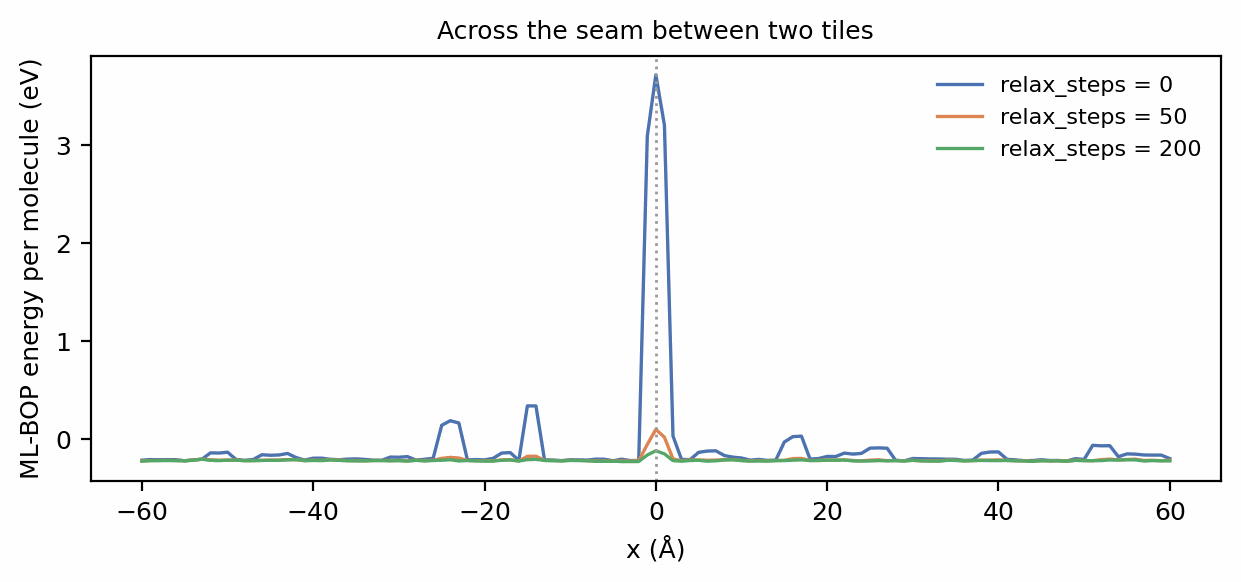
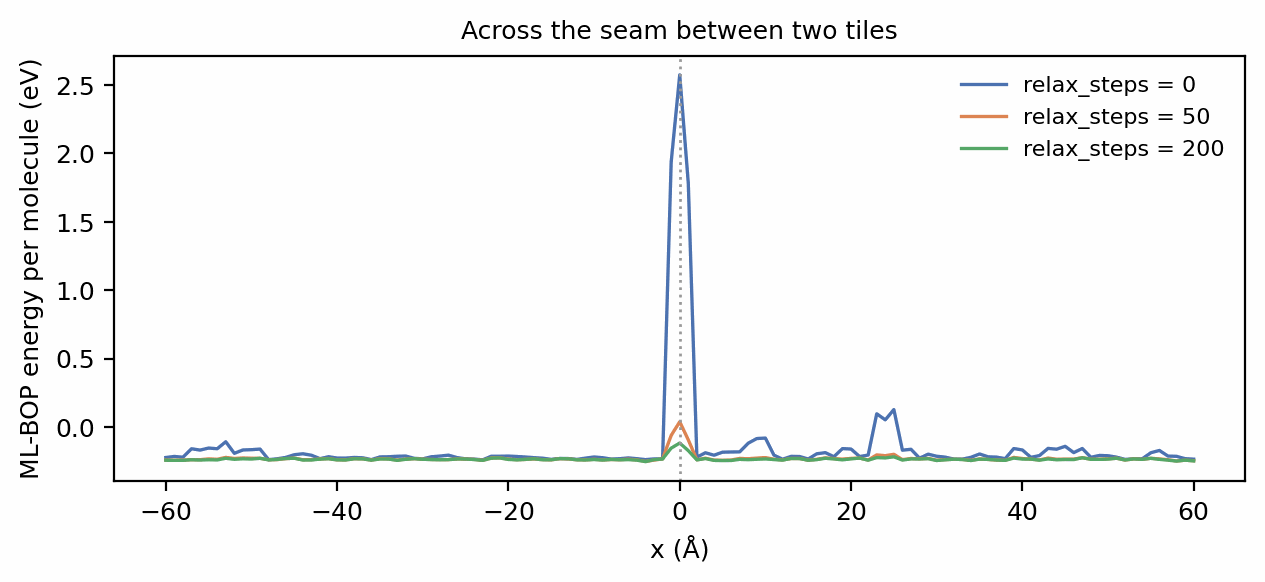
Rerun the ice-library tutorial on the annealed recipe
The trajectory example now anneals before optimizing, so it follows
build_one_ice_config's recipe again, and the prose quotes the new
outputs: the 64 A cell reaches -0.417 eV per molecule in seconds, and
the seams relax to -0.399.

Claude-Session: https://claude.ai/code/session_01NPrPcMGNLoGufkpyjKJtDq

diff --git a/docs-figures/tutorials/ice_library.py b/docs-figures/tutorials/ice_library.py
@@ -52,11 +52,15 @@ torch.manual_seed(1000)  # the seed build_one_ice_config set
 maker = GradientSKIcemaker(n=64, dx=1.0, device="cuda", progressbars=False)
 maker.init_random()
 start_energy = maker.mlbop_energy()["E_per_atom"]
-history = maker.optimize(n_steps=250, record_every=1)
+annealed = maker.anneal()  # Langevin dynamics under ML-BOP, then a quench
+history = maker.optimize(n_steps=250, record_every=1, prerelax_steps=0)
 final_energy = maker.mlbop_energy()["E_per_atom"]
 
 print(f"{maker.n_molecules} water molecules in the cell")
-print(f"ML-BOP energy {start_energy:.2f} -> {final_energy:.3f} eV per molecule")
+print(
+    f"ML-BOP energy {start_energy:.2f} -> {annealed['E_per_atom']:.3f} annealed "
+    f"-> {final_energy:.3f} eV per molecule"
+)
 print(f"S(k) loss {history['sk_loss'][0]:.2e} -> {history['sk_loss'][-1]:.2e}")
 # --8<-- [end:trajectory]
 

diff --git a/docs/tutorials/ice-library.md b/docs/tutorials/ice-library.md
@@ -43,7 +43,7 @@ library. Never write into the bundled library inside the package.
 
 `build_one_ice_config` optimises one configuration and writes it to a
 library directory, named after its seed by `ice_config_filename`. A 64 Å
-cell at 1 Å per voxel keeps the example to a couple of minutes:
+cell at 1 Å per voxel keeps the example to a few seconds:
 
 ```python
 --8<-- "docs-figures/tutorials/ice_library.py:build"
@@ -56,7 +56,10 @@ cell at 1 Å per voxel keeps the example to a couple of minutes:
 The optimisation recipe is fixed rather than exposed: it matches the
 structure factor \(S(k)\) of a molecular-dynamics frame of low-density
 amorphous ice, and holds the coarse-grained ML-BOP water energy (Chan et al.
-2019) near that frame's measured −0.413 eV per molecule. Two libraries built
+2019) near that frame's measured −0.413 eV per molecule. Before the
+optimisation, Langevin dynamics under ML-BOP anneals the random start, so
+that most molecules end with four neighbours as in the MD ice (see
+[Annealing](../concepts/ice.md#annealing)). Two libraries built
 under different recipes would be two different phases of ice, and `IceBank`
 would draw from them interchangeably. The S(k) loss reported is measured on the coordinates
 as stored, which the file keeps in a fixed-point encoding, so it is what any
@@ -90,9 +93,10 @@ optimisation constrains.
 
 Uniformly random positions have no structure: their Fourier amplitude falls
 smoothly with frequency, and overlapping molecules give an ML-BOP energy of
-17.20 eV per molecule. The optimised positions follow the target's water
-ring at 0.27 Å⁻¹ (3.7 Å) and its second peak, and the energy ends at
-−0.366 eV per molecule, approaching the target value. Below 0.1 Å⁻¹ the target
+17.20 eV per molecule. The anneal brings it to −0.428 eV, and the
+optimisation, which holds the energy to the target while matching \(S(k)\),
+ends at −0.418 eV. The optimised positions follow the target's water
+ring at 0.27 Å⁻¹ (3.7 Å) and its second peak. Below 0.1 Å⁻¹ the target
 is low, the signature of a nearly incompressible liquid whose density
 fluctuates little over long distances; see
 [The optimisation target: S(k)](../concepts/ice.md#the-optimisation-target-sk).
@@ -118,7 +122,7 @@ line marks 3.7 Å.
 ///
 
 The two libraries agree where it matters for imaging: the crops' mean
-potentials, 4.55 V and 4.51 V, match, and both spectra peak at the water
+potentials, 4.55 V and 4.52 V, match, and both spectra peak at the water
 ring. Each crop is a random rotation and
 translation of a configuration, rendered with the water-molecule kernel at
 whatever voxel size the request asks for.
@@ -165,8 +169,8 @@ clashes along the seam at \(y = 0\), which every slab crosses.
 ///
 
 Unrelaxed, the clashes at the seams raise the whole canvas's energy to
-0.080 eV per molecule, against −0.366 for the configuration itself. Fifty
-steps bring it to −0.329 and 200 to −0.357, and the seam's peak in the slab
+−0.089 eV per molecule, against −0.417 for the configuration itself. Fifty
+steps bring it to −0.381 and 200 to −0.399, and the seam's peak in the slab
 profile all but disappears. Relaxation only moves molecules near the faces,
 so it costs little next to the optimisation that built the cell; a library
 of cells larger than your boxes avoids seams altogether.
